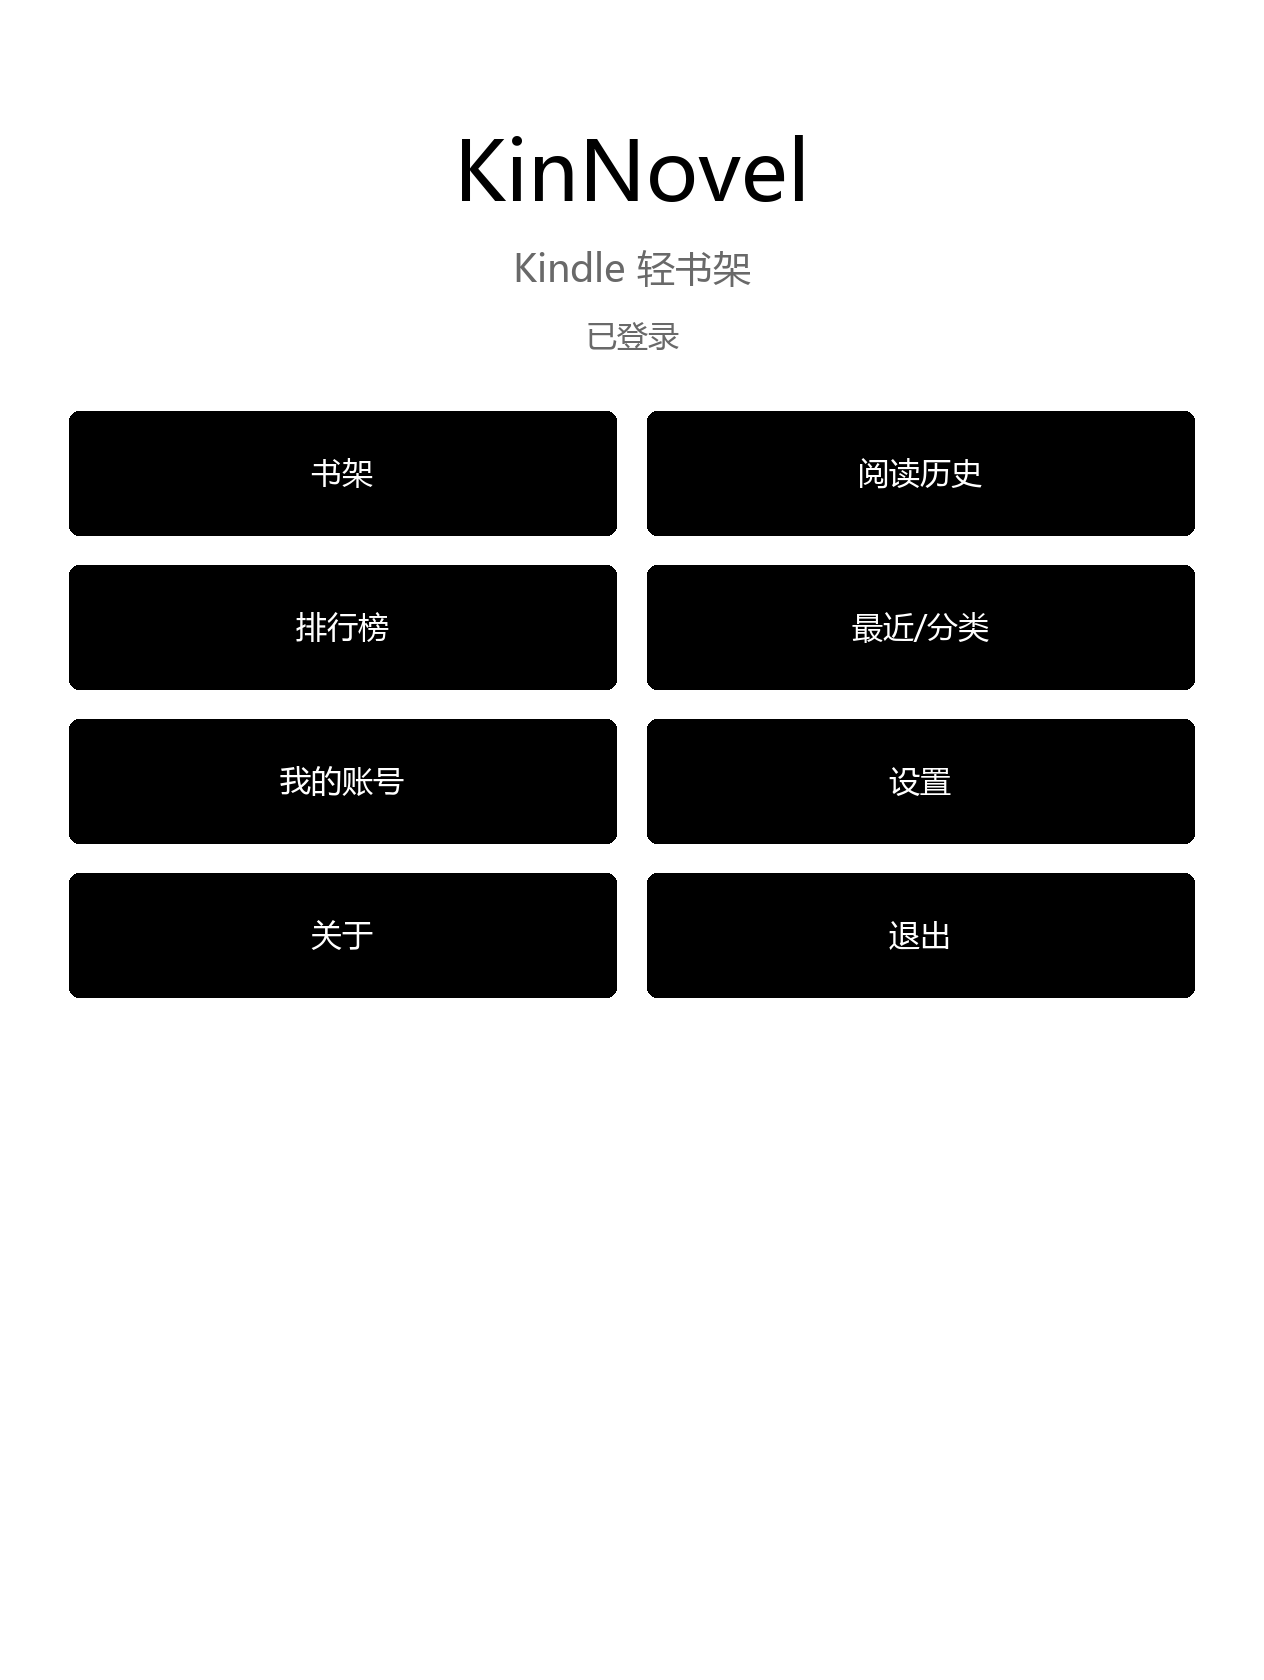
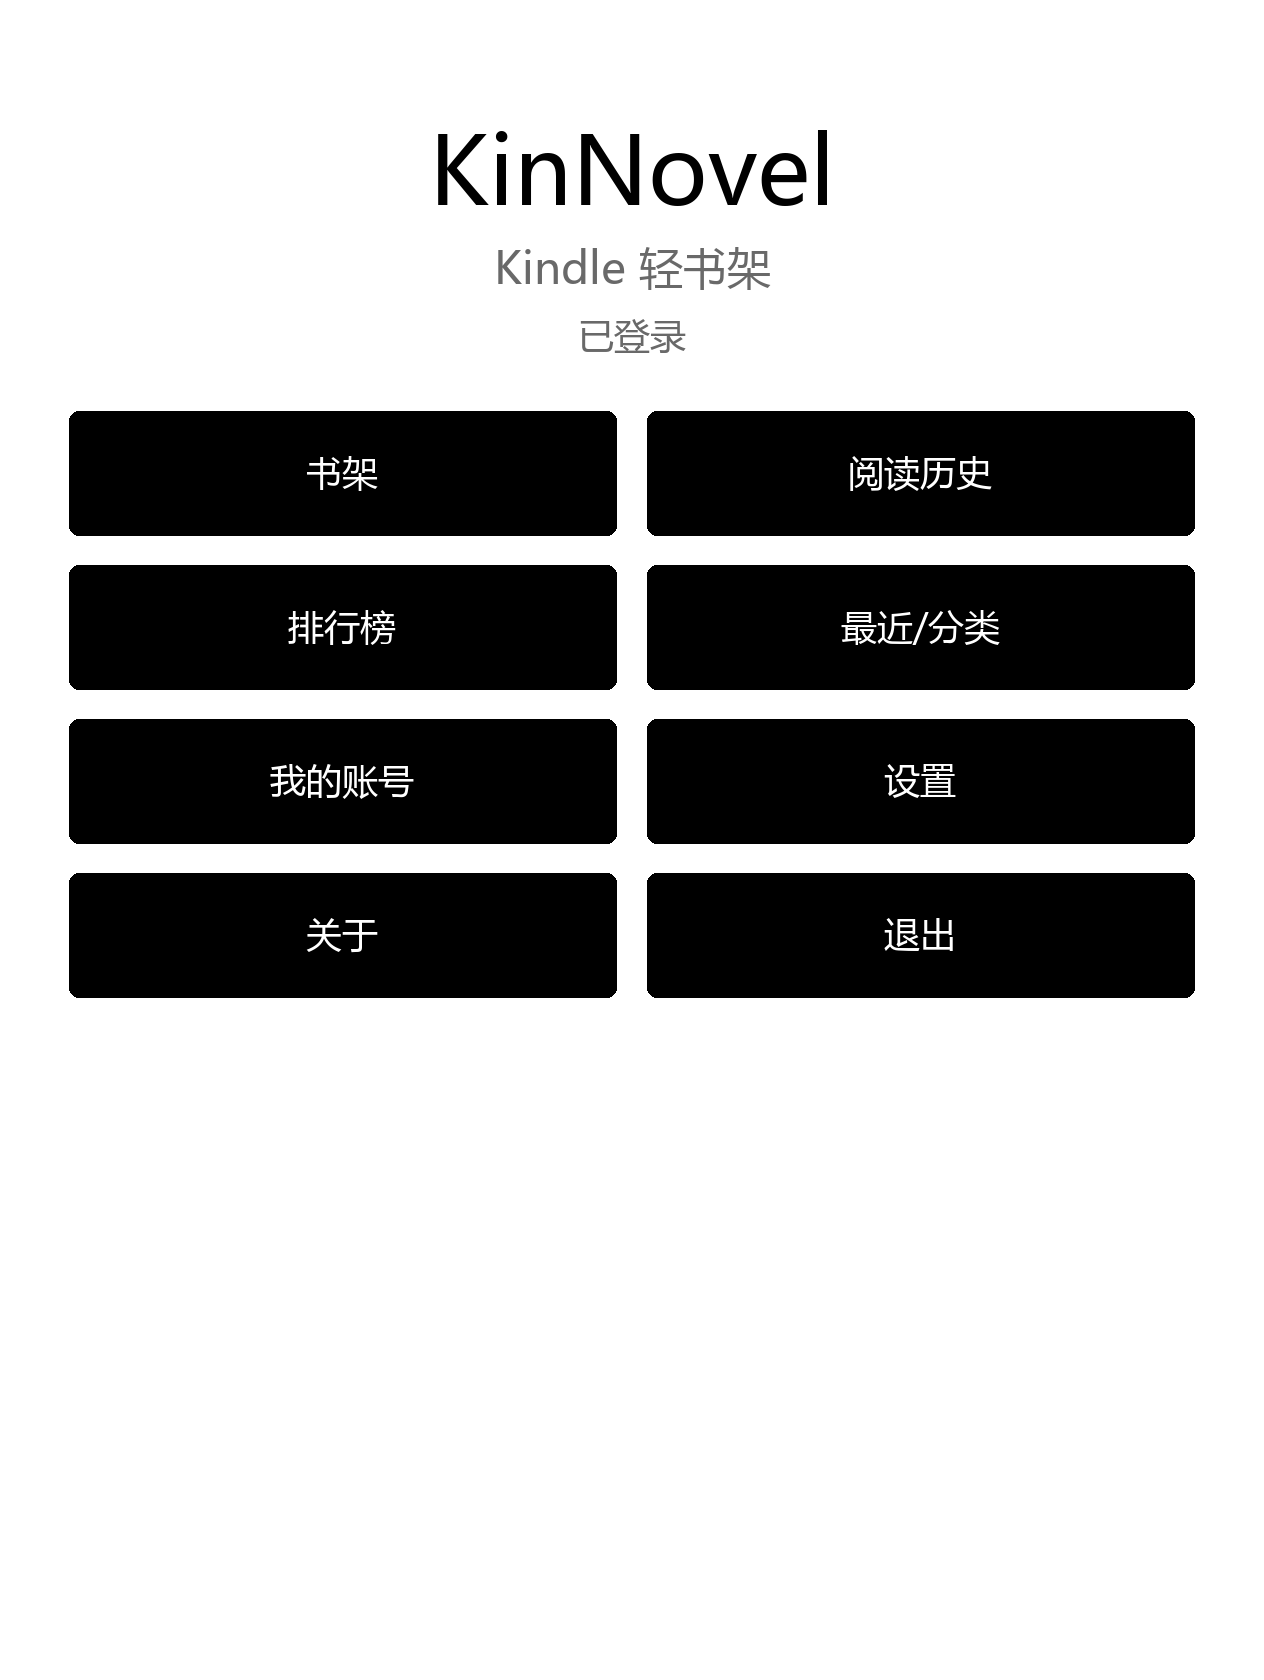
docs: refresh README and previews for v0.3.0

diff --git a/tools/generate_readme_previews.py b/tools/generate_readme_previews.py
@@ -57,12 +57,13 @@ class PreviewApp:
         self.config = PreviewConfig(Config())
         self.api = api
         self.images = ImageCache(maximum=8)
+        # 与 app.load_fonts 相同的分辨率缩放逻辑
+        scale = max(0.75, min(1.15, min(SIZE[0] / 1072, SIZE[1] / 1448)))
         self.fonts = {
-            "hero": ImageFont.truetype(str(_local_font()), 82),
-            "title": ImageFont.truetype(str(_local_font()), 50),
-            "body": ImageFont.truetype(str(_local_font()), 38),
-            "small": ImageFont.truetype(str(_local_font()), 31),
-            "tiny": ImageFont.truetype(str(_local_font()), 25),
+            key: ImageFont.truetype(str(_local_font()), max(12, int(round(size * scale))))
+            for key, size in (
+                ("hero", 82), ("title", 50), ("body", 38), ("small", 31), ("tiny", 25)
+            )
         }
 
     def stop(self):

diff --git a/README.md b/README.md
@@ -52,8 +52,6 @@ Qt 或桌面环境。
   </tr>
 </table>
 
-预览图使用真实账号数据和 book `1854` 第 5 章生成；账号名称已脱敏。
-
 ## 支持内容
 
 | 模块 | 支持内容 |
@@ -61,16 +59,18 @@ Qt 或桌面环境。
 | 账号 | 从 `config.json` 读取账号并自动登录；自动刷新访问令牌 |
 | 首页 | 书架、阅读历史、排行榜、最近/分类、账号、设置、关于和退出 |
 | 首页配置 | 使用 `home_order` 隐藏模块并调整左右、上下顺序 |
+| 状态栏 | 顶栏显示当前时间与设备电量 |
 | 排行榜 | 日榜、周榜、月榜和底部分页 |
 | 最近/分类 | 最近更新、上架时间、总点击数、类型筛选和底部分页 |
 | 书籍 | 书籍详情、简介、标签、章节列表和章节分页 |
 | 阅读 | 章节正文、上一章/下一章、章节目录、阅读进度和阅读历史 |
-| 排版 | 自动分页、字号、行距、首行缩进、简繁转换和夜间模式 |
+| 缓存 | 章节正文磁盘缓存与离线回退；可选预加载前后各一章 |
+| 排版 | 自动分页、字号、行距、首行缩进、标点禁则、简繁转换和夜间模式 |
 | 字体 | 内置 WOFF2 FreeType 运行时；加载章节字体；缺失字形自动使用系统字体补足 |
-| 图片 | 正文插图、独立图片解码进程、点击全屏预览和再次点击退出 |
+| 图片 | 正文插图、服务端缩放图、全章插图预取、点击全屏预览和再次点击退出 |
 | 书架 | 多层文件夹、翻页、加入书架、移出书架和删除文件夹 |
 | 账号功能 | 个人资料、签到、通知、公告、评论浏览和商城 |
-| 显示 | MTK 与 MXCFB EPDC 输出、原屏快照恢复和系统进程暂停/恢复 |
+| 显示 | MTK 与 MXCFB EPDC 自动探测输出、多分辨率界面适配、原屏快照恢复和系统进程暂停/恢复 |
 
 ## 参考项目
 
@@ -225,6 +225,7 @@ chmod +x /mnt/us/extensions/kinnovel/bin/start.sh
   "convert": null,
   "ignore_japanese": false,
   "ignore_ai": false,
+  "prefetch_chapters": false,
   "request_limit": 9,
   "request_window_ms": 5500,
   "cache_limit_mb": 192,
@@ -262,7 +263,7 @@ Git，也不要分享带有真实凭据的 `config.json`。
 
 | 字段 | 说明 | 默认值 |
 |---|---|---|
-| `screen_protocol` | EPDC 协议；`auto` 依次尝试 `mtk`、`mxcfb` | `auto` |
+| `screen_protocol` | EPDC 协议；`auto` 自动探测 `mtk`、`mxcfb` | `auto` |
 | `framebuffer` | Kindle framebuffer 路径 | `/dev/fb0` |
 | `page_flash` | 翻页时是否强制全屏刷新 | `false` |
 | `night_mode` | 是否使用黑白反转的夜间模式 | `false` |
@@ -288,6 +289,7 @@ Git，也不要分享带有真实凭据的 `config.json`。
 | `first_line_indent` | 首行缩进 | `true` |
 | `justify` | 两端对齐 | `false` |
 | `convert` | 简繁转换：`null`、`t2s`、`s2t` | `null` |
+| `prefetch_chapters` | 预加载前后各一章的正文与字体；章节正文始终写入磁盘缓存，离线时自动回退 | `false` |
 | `ignore_japanese` | 列表过滤日文作品 | `false` |
 | `ignore_ai` | 列表过滤 AI 作品 | `false` |
 
